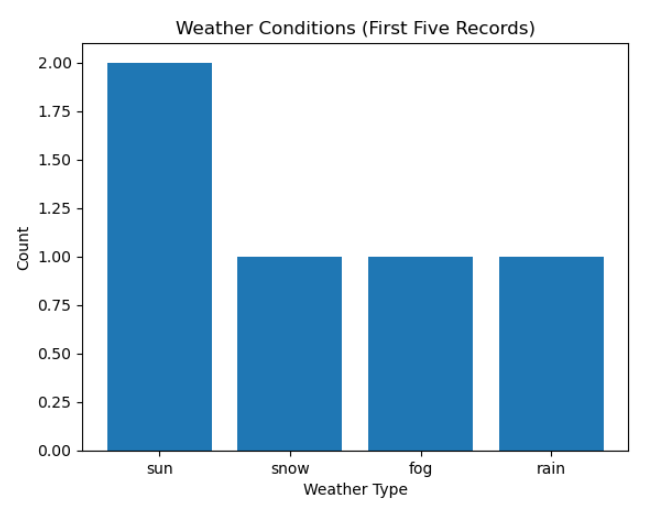
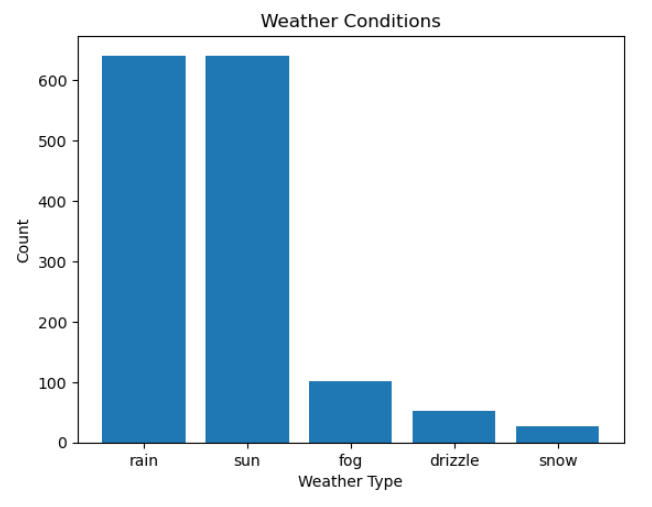
fixed files

diff --git a/README.md b/README.md
@@ -6,9 +6,8 @@ The purpose of this lab was to explore and analyze a weather dataset for Seattle
 ## Key Insights
 
 ### Visualizations
-- **Line Plot (Maximum Temperature Over Time):** Showed clear seasonal variation in maximum temperatures. Winter days had low maximum temperatures (~6–7°C), summer days were much hotter (~28–31°C), and transitional fall dates had moderate temperatures (~13°C).
 - **Scatter Plot (Max Temperature vs Precipitation):** Indicated that colder days were associated with higher precipitation, while warmer summer days had little to no precipitation. This suggests a seasonal relationship between temperature and precipitation.
-- **Bar Chart (Weather Conditions):** Highlighted that sunny conditions were most frequent in the sample, while snow, rain, and fog occurred less often.
+- **Bar Chart (Weather Conditions):** Highlighted that rainy and sunny conditions were most frequent in the sample, while fog, drizzle, and fog occurred less often.
 
 ### Statistical Measures
 - **Central Tendency:** Mean and median values provided an understanding of typical temperature and precipitation levels, while mode highlighted the most common values (e.g., zero precipitation on several summer days).
